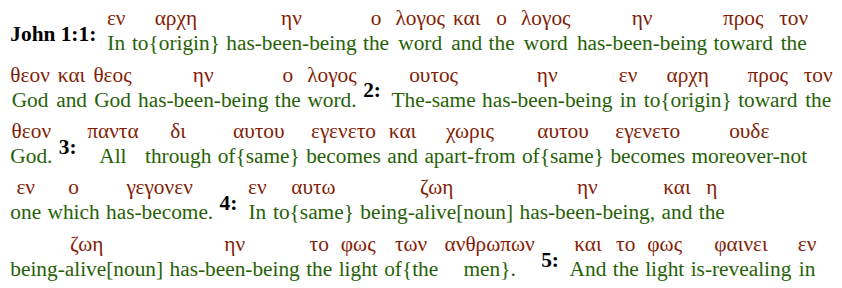
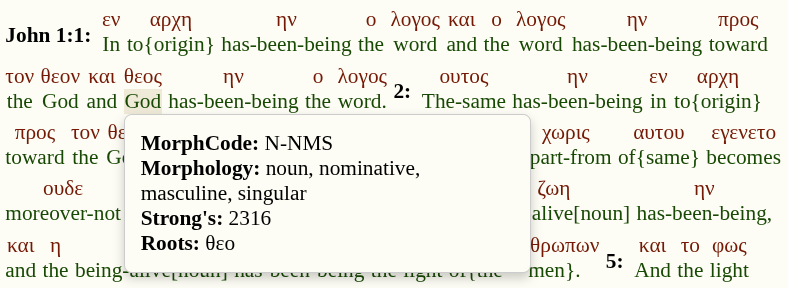
Updated preview image given new style choices and added popup view.

diff --git a/ght-i.html b/ght-i.html
@@ -4,7 +4,7 @@
   <meta name="viewport" content="width=device-width, initial-scale=1">
   <meta http-equiv="content-type" content="text/html; charset=UTF-8">
   <meta property="og:image" content="https://ghukek.com/preview.png">
-  <meta property="og:image:width" content="842">
+  <meta property="og:image:width" content="788">
   <meta property="og:image:height" content="288">
   <meta property="og:title" content="GHT Study Tool">
   <meta property="og:description" content="Greek Interlinear and Search">
